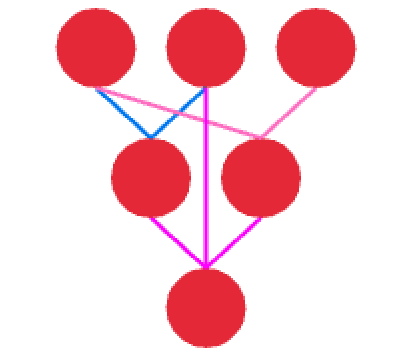
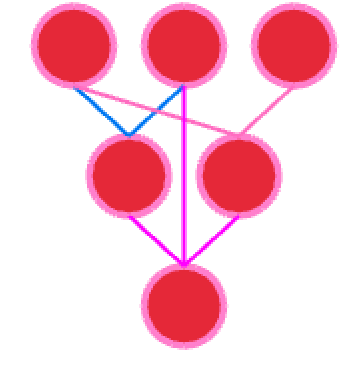
Add outer ring for nodes

Changed region(s): [[0.0604, 0.0, 0.9368, 0.9832]]

diff --git a/src/render/graph.rs b/src/render/graph.rs
@@ -1,6 +1,6 @@
 use std::collections::HashMap;
 
-use litequad::{window::{next_frame, clear_background, screen_width}, prelude::WHITE, shapes::{draw_circle, draw_line}};
+use litequad::{window::{next_frame, clear_background, screen_width}, prelude::WHITE, shapes::{draw_circle, draw_line, draw_circle_lines}};
 use crate::{Graph, graph::EdgeColor};
 use super::COLOR_ARRAY;
 
@@ -27,6 +27,7 @@ pub async fn run(graph: Graph) {
                 node_coords.insert(node.idx, (x, y));
 
                 draw_circle(x, y, radius, graph.graph_desc.node_color);
+                draw_circle_lines(x, y, radius, graph.graph_desc.outer_ring.1, graph.graph_desc.outer_ring.0);
 
                 //draw_line(screen_width() / 2. - radius, y, screen_width() / 2. - radius +length, y, 5., BLUE);
 

diff --git a/examples/graph.rs b/examples/graph.rs
@@ -1,8 +1,12 @@
-use graplot::{Graph, RED};
+use graplot::{Graph, RED, graph::GraphDesc, Color};
 
 fn main() {
     let mut graph = Graph::new();
-    graph.set_node_color(RED);
+    graph.graph_desc = GraphDesc {
+        node_color: RED,
+        outer_ring: (Color::new(1., 0.5, 0.8, 1.), 3.5),
+        ..Default::default()
+    };
     let a = graph.add_node(vec![]);
     let b = graph.add_node(vec![]);
     let c = graph.add_node(vec![]);

diff --git a/src/graph.rs b/src/graph.rs
@@ -22,6 +22,7 @@ pub struct GraphDesc {
     pub egde_color: EdgeColor,
     pub window_width: i32,
     pub window_height: i32,
+    pub outer_ring: (Color, f32),
 
 }
 
@@ -36,6 +37,7 @@ impl Default for GraphDesc {
             egde_color: EdgeColor::Mixed,
             window_width: 395,
             window_height: 395,
+            outer_ring: (GREEN, 0.)
         }
     }
 }

diff --git a/README.md b/README.md
@@ -185,11 +185,14 @@ plot.show();
 Draw graphs with nodes and egdes:
 
 ```rust
-use graplot::{Graph, RED};
+use graplot::{Graph, RED, graph::GraphDesc, Color};
 
 let mut graph = Graph::new();
-graph.set_node_color(RED);
-
+graph.graph_desc = GraphDesc {
+    node_color: RED,
+    outer_ring: (Color::new(1., 0.5, 0.8, 1.), 3.5),
+    ..Default::default()
+};
 let a = graph.add_node(vec![]);
 let b = graph.add_node(vec![]);
 let c = graph.add_node(vec![]);
